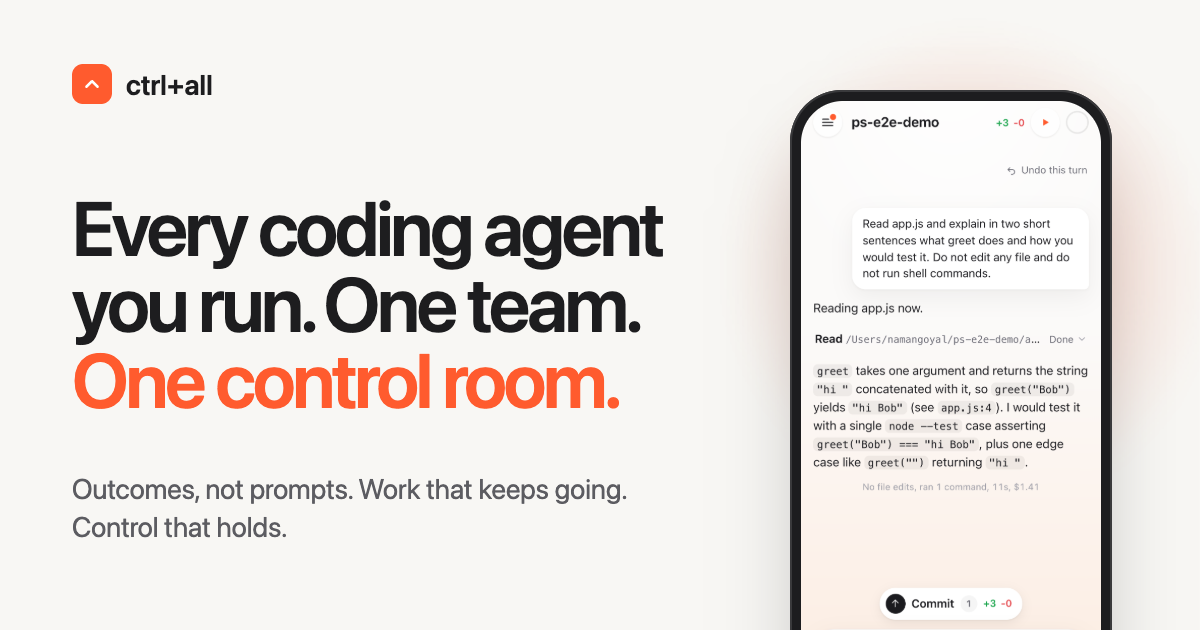
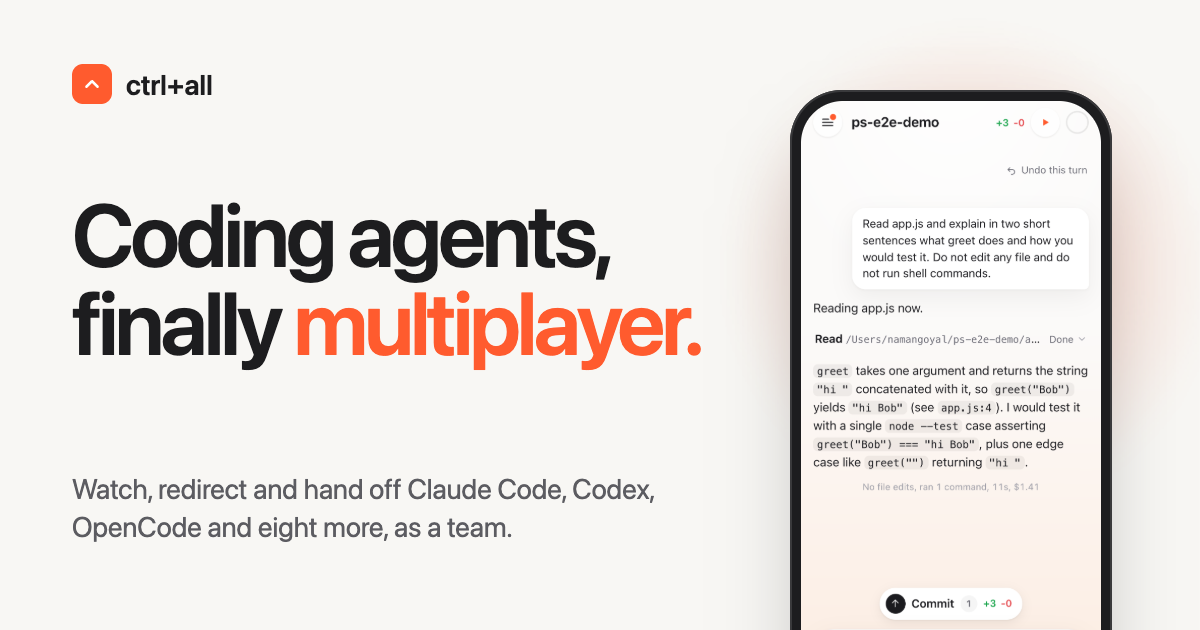
site: 2026-10-08T08:29Z from ctrlall@067c25c

Changed region(s): [[0.0617, 0.3016, 0.5858, 0.6635], [0.0617, 0.754, 0.555, 0.8746]]

diff --git a/index.html b/index.html
@@ -4,9 +4,9 @@
 <meta charset="utf-8">
 <meta name="viewport" content="width=device-width, initial-scale=1, viewport-fit=cover">
 <title>ctrl+all</title>
-<meta name="description" content="ctrl+all is the control room for every coding agent you run. Give Claude Code, Codex, OpenCode and eight more outcomes instead of prompts, keep them working after you walk away, and approve the moments that matter from your phone.">
+<meta name="description" content="ctrl+all makes coding agents multiplayer. Claude Code, Codex, OpenCode and eight more run on one Mac where a team can watch them work, redirect them mid-turn, hand them off, and approve the moments that matter from a phone.">
 <meta property="og:title" content="ctrl+all">
-<meta property="og:description" content="Every coding agent you run. One team. One control room.">
+<meta property="og:description" content="Coding agents, finally multiplayer. Watch, redirect and hand off Claude Code, Codex, OpenCode and eight more, as a team.">
 <meta property="og:type" content="website">
 <meta property="og:image" content="https://namangoyal3.github.io/ctrlall-site/assets/og.png">
 <meta name="twitter:card" content="summary_large_image">
@@ -223,8 +223,8 @@ footer .brand{font-size:15px;color:var(--ink)}
 <section class="hero" aria-labelledby="hero-h">
   <div class="wrap">
     <div>
-      <h1 class="h1 rise" id="hero-h">Every coding agent you run. One team. <em>One control room.</em></h1>
-      <p class="lede rise">ctrl+all runs Claude Code, Codex, OpenCode and eight more on your Mac. Hand them outcomes, keep them working after you walk away, and approve the moments that matter from your phone.</p>
+      <h1 class="h1 rise" id="hero-h">Coding agents, finally <em>multiplayer.</em></h1>
+      <p class="lede rise">ctrl+all runs Claude Code, Codex, OpenCode and eight more on one Mac, where your whole team can watch them work, redirect them mid-turn, and hand them off. From a laptop or a phone.</p>
       <form class="form rise" data-waitlist novalidate>
         <label class="sr" for="email-hero">Email address</label>
         <input id="email-hero" type="email" name="email" placeholder="Your email" autocomplete="email" inputmode="email" required>
@@ -275,13 +275,13 @@ footer .brand{font-size:15px;color:var(--ink)}
 
 <section class="problem" aria-labelledby="prob-h">
   <div class="wrap">
-    <h2 class="h2 reveal" id="prob-h">Five agents. Five terminals. You in the middle.</h2>
+    <h2 class="h2 reveal" id="prob-h">Today every agent is single-player.</h2>
     <div class="pains">
-      <div class="pain reveal"><b>Nothing is shared.</b><p>Each agent lives in its own terminal with its own tools, its own skills and no memory of the others.</p></div>
-      <div class="pain reveal"><b>Work stops at the first yes.</b><p>A long task waits on a permission prompt. You find out an hour later, when you come back to the desk.</p></div>
-      <div class="pain reveal"><b>The lid closes, the day ends.</b><p>Your subscriptions sit idle all night because nothing runs when you are not sitting there.</p></div>
+      <div class="pain reveal"><b>Nobody else can see it.</b><p>The agent runs in one person's terminal. A teammate cannot watch the transcript, read the diff, or tell what it is about to do.</p></div>
+      <div class="pain reveal"><b>Nobody else can redirect it.</b><p>A long task waits on one person's yes. If they are in a meeting or on a train, the work waits with them.</p></div>
+      <div class="pain reveal"><b>Nobody can pick it up.</b><p>Close the lid and the session is gone. There is no handoff, no record, and nothing runs overnight.</p></div>
     </div>
-    <p class="turn reveal">ctrl+all is the layer above them. The agents stay exactly what they are. The management becomes one thing.</p>
+    <p class="turn reveal">ctrl+all makes the agent a shared colleague: visible to the team, steerable by whoever is there, and handed off with a role and a record.</p>
   </div>
 </section>
 
@@ -306,33 +306,33 @@ footer .brand{font-size:15px;color:var(--ink)}
 
 <section class="two" aria-labelledby="pil-h">
   <div class="wrap">
-    <h2 class="h2 reveal" id="pil-h">Three things remote access never gave you.</h2>
+    <h2 class="h2 reveal" id="pil-h">Watch. Redirect. Hand off.</h2>
     <div class="grid">
       <article class="card reveal">
-        <header><svg class="ic" aria-hidden="true" xmlns="http://www.w3.org/2000/svg" viewBox="0 0 256 256" fill="currentColor"><path d="M221.87,83.16A104.1,104.1,0,1,1,195.67,49l22.67-22.68a8,8,0,0,1,11.32,11.32l-96,96a8,8,0,0,1-11.32-11.32l27.72-27.72a40,40,0,1,0,17.87,31.09,8,8,0,1,1,16-.9,56,56,0,1,1-22.38-41.65L184.3,60.39a87.88,87.88,0,1,0,23.13,29.67,8,8,0,0,1,14.44-6.9Z"/></svg><h3>Outcomes, not prompts</h3></header>
-        <p>Name what done looks like. The goal loop writes the PRD and the plan, then builds and tests each phase in its own worktree.</p>
+        <header><svg class="ic" aria-hidden="true" xmlns="http://www.w3.org/2000/svg" viewBox="0 0 256 256" fill="currentColor"><path d="M104,40H56A16,16,0,0,0,40,56v48a16,16,0,0,0,16,16h48a16,16,0,0,0,16-16V56A16,16,0,0,0,104,40Zm0,64H56V56h48v48Zm96-64H152a16,16,0,0,0-16,16v48a16,16,0,0,0,16,16h48a16,16,0,0,0,16-16V56A16,16,0,0,0,200,40Zm0,64H152V56h48v48Zm-96,32H56a16,16,0,0,0-16,16v48a16,16,0,0,0,16,16h48a16,16,0,0,0,16-16V152A16,16,0,0,0,104,136Zm0,64H56V152h48v48Zm96-64H152a16,16,0,0,0-16,16v48a16,16,0,0,0,16,16h48a16,16,0,0,0,16-16V152A16,16,0,0,0,200,136Zm0,64H152V152h48v48Z"/></svg><h3>Watch</h3></header>
+        <p>Every transcript, tool call and diff streams to every paired device, live.</p>
         <ul>
-          <li>Checkpoints on green, merges with --no-ff, refuses if the branch moved under it.</li>
-          <li>Hard caps on builds and tests, so a loop cannot run away.</li>
-          <li>Missions that outlive a turn, with per-project memory injected into every prompt.</li>
+          <li>Workspaces put several running chats side by side, each in its own environment.</li>
+          <li>Share a live terminal with your organization while the agent works in it.</li>
+          <li>Every chat is an append-only log, so the record is there for whoever comes next.</li>
         </ul>
       </article>
       <article class="card dark reveal">
-        <header><svg class="ic" aria-hidden="true" xmlns="http://www.w3.org/2000/svg" viewBox="0 0 256 256" fill="currentColor"><path d="M120,128V48a8,8,0,0,1,16,0v80a8,8,0,0,1-16,0Zm60.37-78.7a8,8,0,0,0-8.74,13.4C194.74,77.77,208,101.57,208,128a80,80,0,0,1-160,0c0-26.43,13.26-50.23,36.37-65.3a8,8,0,0,0-8.74-13.4C47.9,67.38,32,96.06,32,128a96,96,0,0,0,192,0C224,96.06,208.1,67.38,180.37,49.3Z"/></svg><h3>Work that keeps going</h3></header>
-        <p>The engine runs under launchd. Quit the window, close the lid, and the agents keep working.</p>
+        <header><svg class="ic" aria-hidden="true" xmlns="http://www.w3.org/2000/svg" viewBox="0 0 256 256" fill="currentColor"><path d="M140,128a12,12,0,1,1-12-12A12,12,0,0,1,140,128ZM84,116a12,12,0,1,0,12,12A12,12,0,0,0,84,116Zm88,0a12,12,0,1,0,12,12A12,12,0,0,0,172,116Zm60,12A104,104,0,0,1,79.12,219.82L45.07,231.17a16,16,0,0,1-20.24-20.24l11.35-34.05A104,104,0,1,1,232,128Zm-16,0A88,88,0,1,0,51.81,172.06a8,8,0,0,1,.66,6.54L40,216,77.4,203.53a7.85,7.85,0,0,1,2.53-.42,8,8,0,0,1,4,1.08A88,88,0,0,0,216,128Z"/></svg><h3>Redirect</h3></header>
+        <p>Steer a running turn or queue the next one, from the desk or from the train.</p>
         <ul>
-          <li>Routines run a saved prompt on a schedule, unattended.</li>
-          <li>One inbox collects every question and every stopped goal, from every engine.</li>
-          <li>Every chat is an append-only log. Rewind a turn and the files go back too.</li>
+          <li>Questions and permission prompts arrive as cards on every device and are answered once.</li>
+          <li>Plan, ask, auto-edit or full auto, enforced on the Mac. A phone can lower its rank, never raise it.</li>
+          <li>Hand it an outcome: the goal loop plans, builds and tests each phase in its own worktree and merges on green.</li>
         </ul>
       </article>
       <article class="card reveal">
-        <header><svg class="ic" aria-hidden="true" xmlns="http://www.w3.org/2000/svg" viewBox="0 0 256 256" fill="currentColor"><path d="M208,40H48A16,16,0,0,0,32,56v56c0,52.72,25.52,84.67,46.93,102.19,23.06,18.86,46,25.26,47,25.53a8,8,0,0,0,4.2,0c1-.27,23.91-6.67,47-25.53C198.48,196.67,224,164.72,224,112V56A16,16,0,0,0,208,40Zm0,72c0,37.07-13.66,67.16-40.6,89.42A129.3,129.3,0,0,1,128,223.62a128.25,128.25,0,0,1-38.92-21.81C61.82,179.51,48,149.3,48,112l0-56,160,0ZM82.34,141.66a8,8,0,0,1,11.32-11.32L112,148.69l50.34-50.35a8,8,0,0,1,11.32,11.32l-56,56a8,8,0,0,1-11.32,0Z"/></svg><h3>Control that holds</h3></header>
-        <p>Plan, ask, auto-edit or full auto, enforced on the Mac. Your phone is a window, never a bypass.</p>
+        <header><svg class="ic" aria-hidden="true" xmlns="http://www.w3.org/2000/svg" viewBox="0 0 256 256" fill="currentColor"><path d="M244.8,150.4a8,8,0,0,1-11.2-1.6A51.6,51.6,0,0,0,192,128a8,8,0,0,1-7.37-4.89,8,8,0,0,1,0-6.22A8,8,0,0,1,192,112a24,24,0,1,0-23.24-30,8,8,0,1,1-15.5-4A40,40,0,1,1,219,117.51a67.94,67.94,0,0,1,27.43,21.68A8,8,0,0,1,244.8,150.4ZM190.92,212a8,8,0,1,1-13.84,8,57,57,0,0,0-98.16,0,8,8,0,1,1-13.84-8,72.06,72.06,0,0,1,33.74-29.92,48,48,0,1,1,58.36,0A72.06,72.06,0,0,1,190.92,212ZM128,176a32,32,0,1,0-32-32A32,32,0,0,0,128,176ZM72,120a8,8,0,0,0-8-8A24,24,0,1,1,87.24,82a8,8,0,1,0,15.5-4A40,40,0,1,0,37,117.51,67.94,67.94,0,0,0,9.6,139.19a8,8,0,1,0,12.8,9.61A51.6,51.6,0,0,1,64,128,8,8,0,0,0,72,120Z"/></svg><h3>Hand off</h3></header>
+        <p>Invite a teammate with a role. They pair their own phone and pick up where you left.</p>
         <ul>
-          <li>A phone can lower its own rank for a session and can never raise it.</li>
-          <li>Teammates get a role: owner, operator or viewer. Each pairs their own phone.</li>
-          <li>Sealed frames end to end. No cloud workspace, no copy of your code, no metering.</li>
+          <li>Owner, operator or viewer. Each role sees and does exactly what it should.</li>
+          <li>One inbox for everything that waits on anyone: open questions, stopped goals.</li>
+          <li>The engine runs under launchd. Routines and goals keep going between people, and overnight.</li>
         </ul>
       </article>
     </div>
@@ -343,7 +343,7 @@ footer .brand{font-size:15px;color:var(--ink)}
   <div class="wrap">
     <div class="head reveal">
       <h2 class="h2" id="win-h">Try the control room.</h2>
-      <p class="sub">Answer a permission, start a goal, run a routine, open the terminal. Four things work in this preview. The rest ships with the beta.</p>
+      <p class="sub">Two devices, one agent. Answer the permission on the phone and the Mac sees it, the way a teammate would. Then start a goal, run a routine, open the terminal.</p>
     </div>
     <div class="mac reveal" id="mac">
       <div class="mac-bar" aria-hidden="true"><i></i><i></i><i></i><span>ctrl+all</span></div>
@@ -506,7 +506,8 @@ footer .brand{font-size:15px;color:var(--ink)}
 <section class="faq" id="faq" aria-labelledby="faq-h">
   <div class="wrap">
     <h2 class="h2 reveal" id="faq-h">Questions, answered.</h2>
-      <details class="reveal"><summary>Is this just remote access to my Mac?</summary><p>No. Remote access shows you a screen. ctrl+all runs the agents itself: it writes the plan, opens the worktree, runs the tests, holds a permission until you answer, and keeps going after you close the lid. The phone is one window into that engine. The Mac window is another.</p></details>
+      <details class="reveal"><summary>Is this just remote access to my Mac?</summary><p>No. Remote access shows one person a screen. ctrl+all runs the agents itself and makes the session shared: it writes the plan, opens the worktree, runs the tests, holds a permission until someone with the right role answers, and keeps going after you close the lid. Your phone, your laptop and your teammates are all windows into the same engine.</p></details>
+      <details class="reveal"><summary>How does a team use it?</summary><p>One Mac runs the engine. The owner invites teammates with a role, owner, operator or viewer, and each pairs their own phone or laptop. Everyone sees the same chats, goals and inbox, fenced to what their role allows.</p></details>
       <details class="reveal"><summary>Do I need an account or a cloud workspace?</summary><p>No. The engine runs on your Mac. Off your network, a relay forwards sealed frames between your phone and your Mac. With Tailscale Funnel or a quick tunnel there is no cloud account at all.</p></details>
       <details class="reveal"><summary>Which agents does it run?</summary><p>Claude Code, Codex, OpenCode, Grok, Hermes, Kimi, Z.ai, Cursor, Gemini, Copilot and a local Ollama model. Each runs as it would in your terminal, on the subscription you already have.</p></details>
       <details class="reveal"><summary>Does it cost per token?</summary><p>No. ctrl+all meters nothing. You pay the vendors you already pay, and nothing else.</p></details>
@@ -534,7 +535,7 @@ footer .brand{font-size:15px;color:var(--ink)}
 <dialog class="wl" id="wl" aria-labelledby="wl-h">
   <div class="inner">
     <button type="button" class="close" data-close aria-label="Close">&times;</button>
-    <h2 id="wl-h">Want the control room on your Mac?</h2>
+    <h2 id="wl-h">Want your agents multiplayer?</h2>
     <p class="sub">You just tried the parts that matter. Leave your email and we send one message when your invite is ready.</p>
     <form class="form" data-waitlist novalidate>
       <label class="sr" for="email-dlg">Email address</label>
